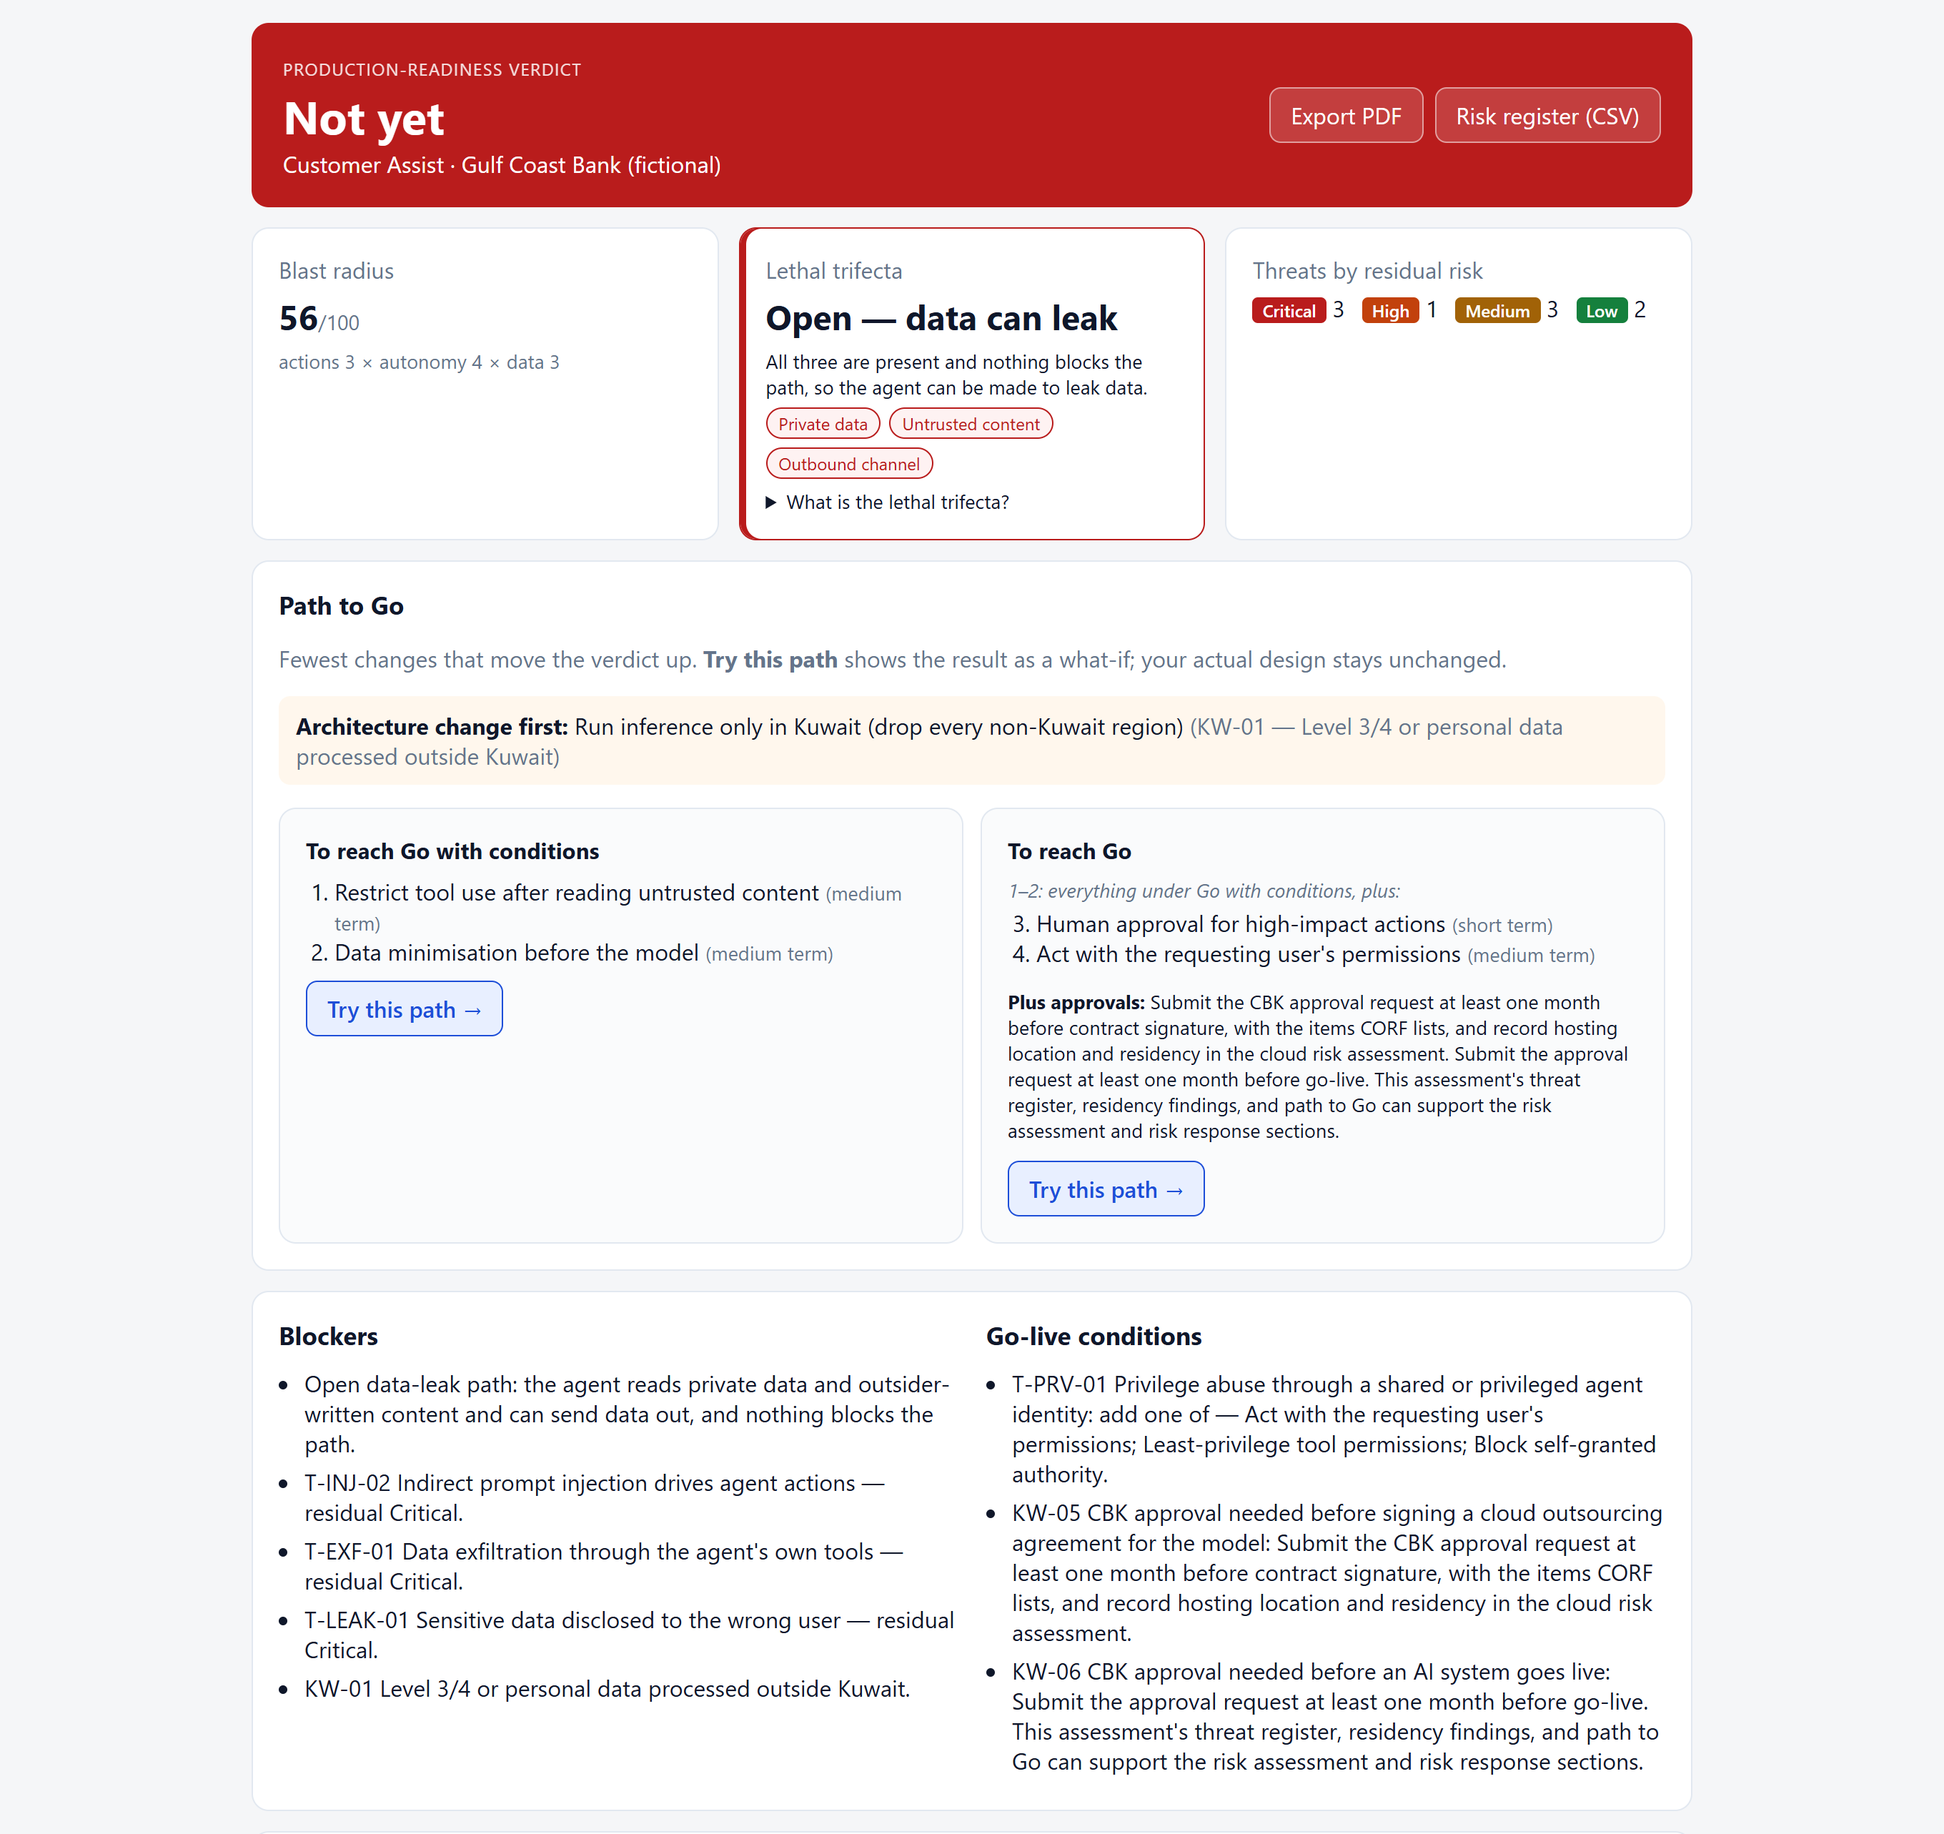
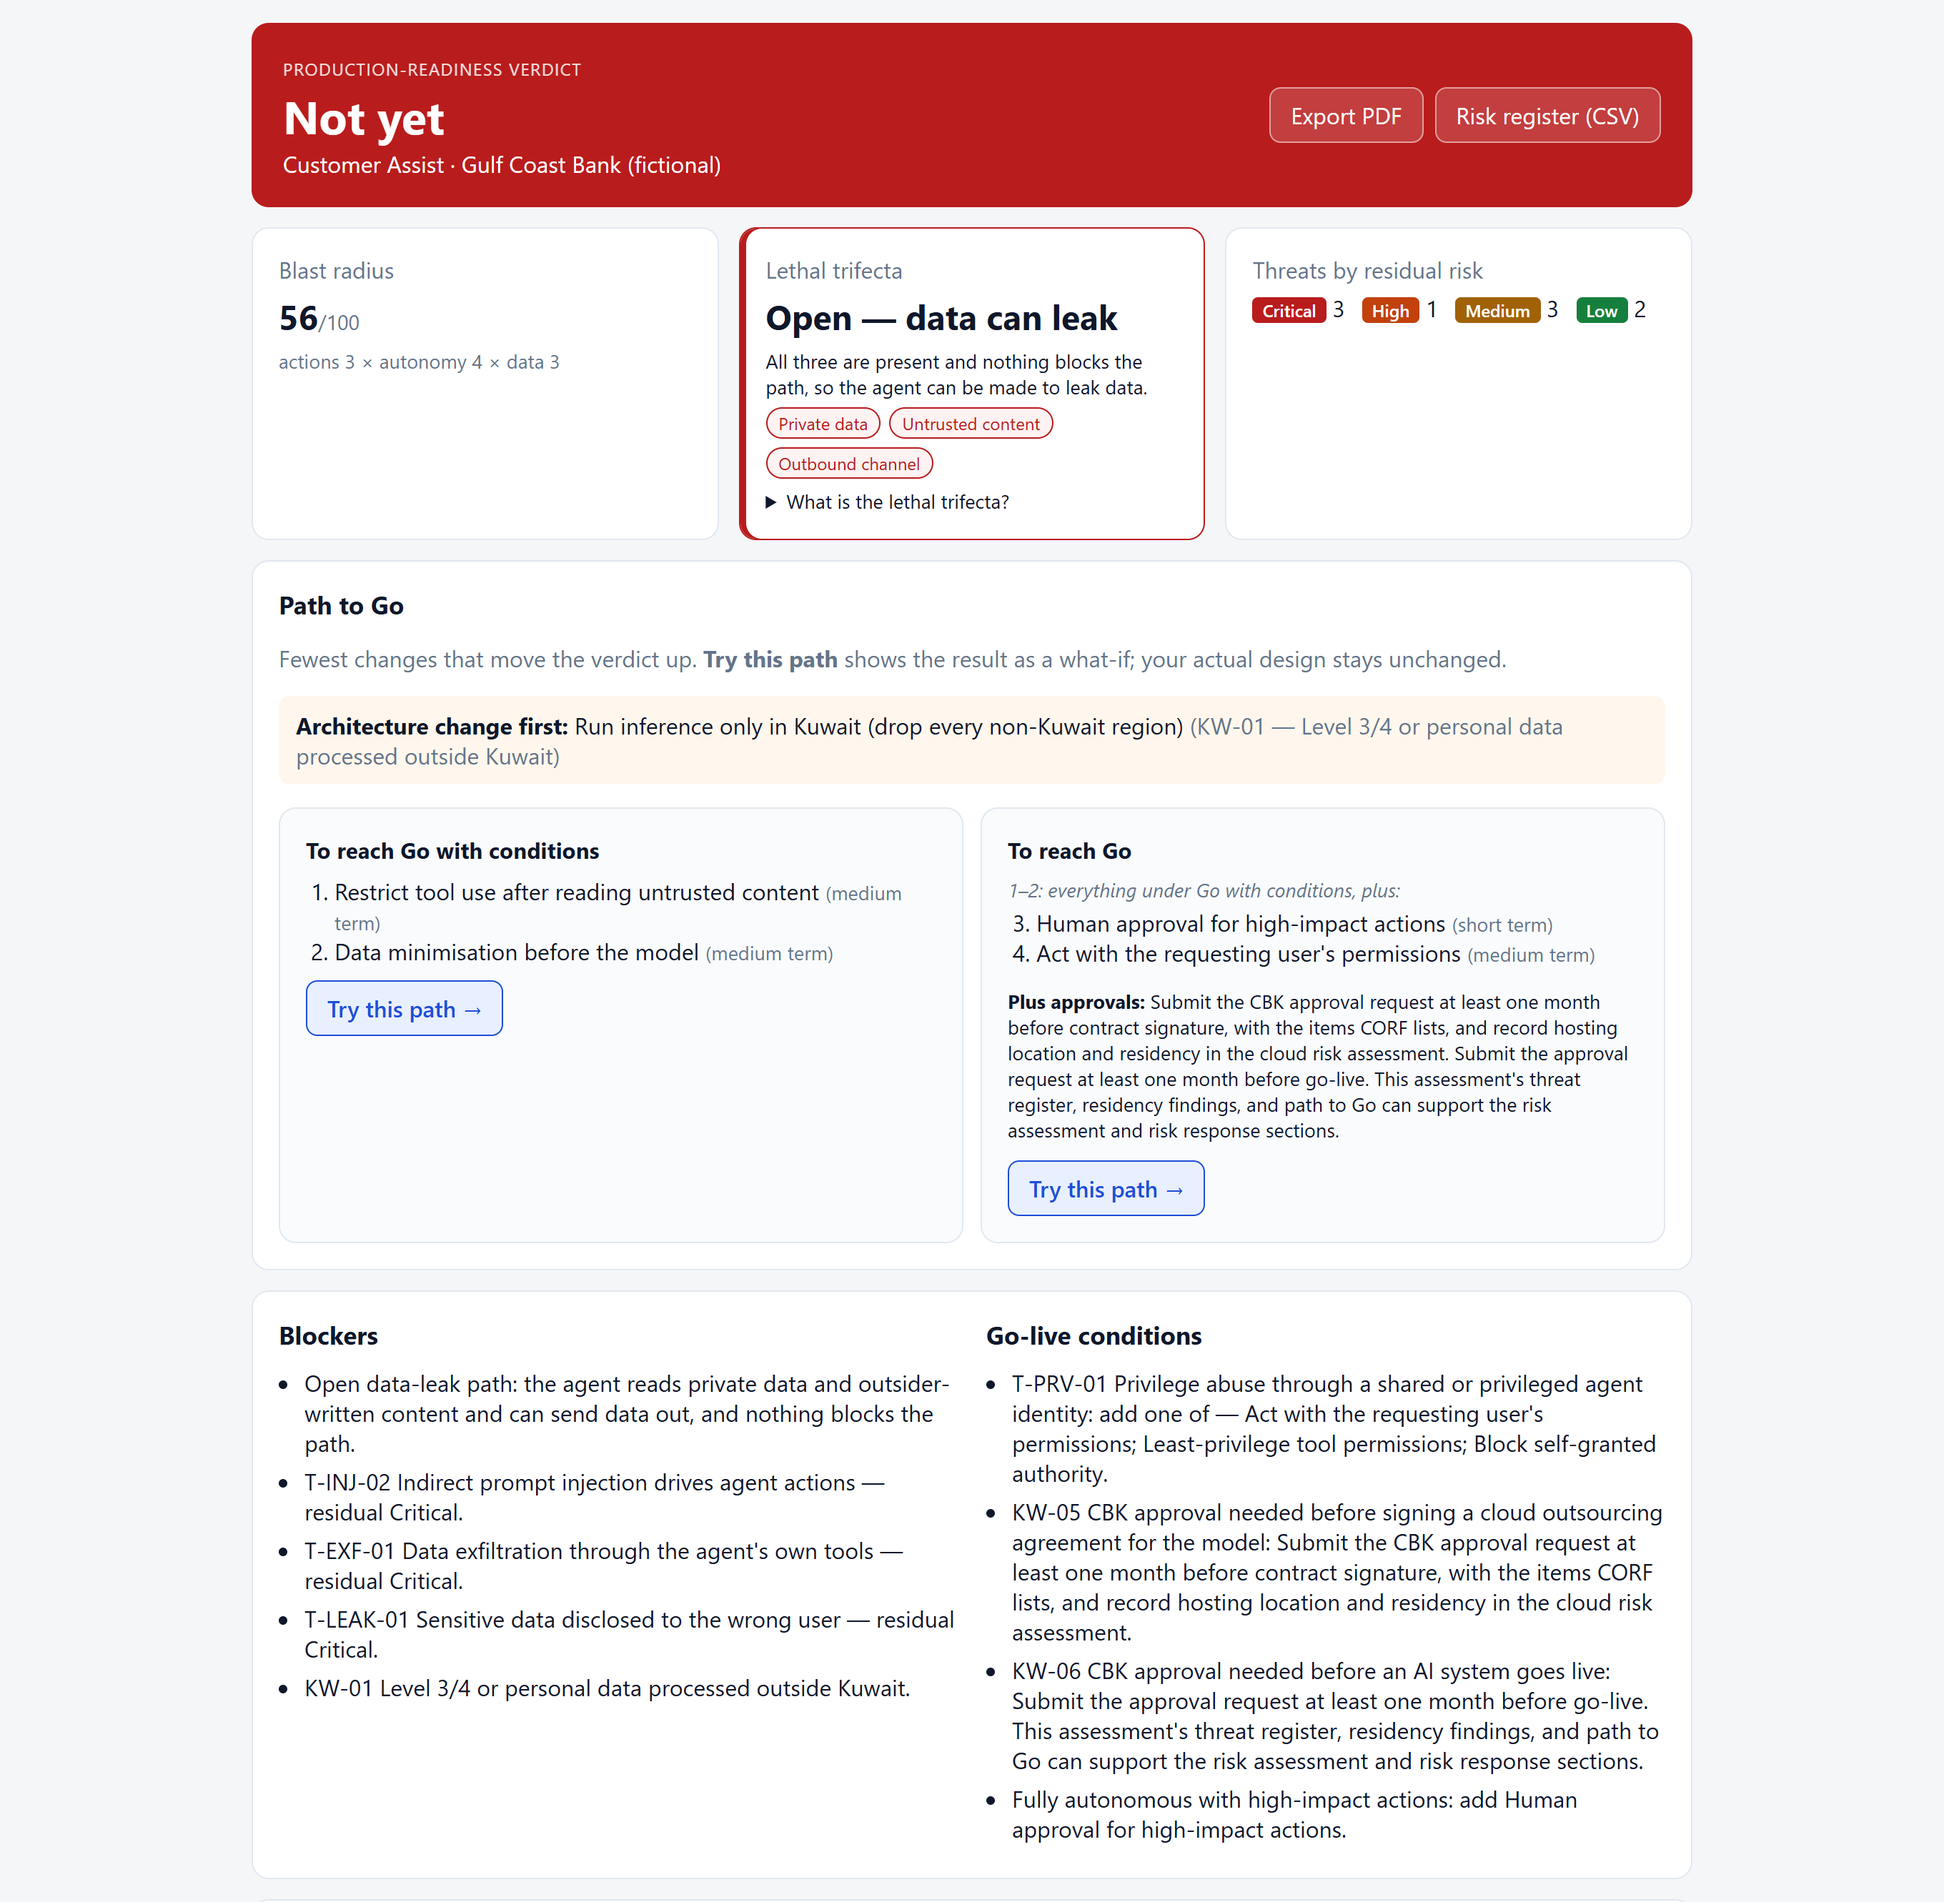
agent-risk-assessor: autonomy rule for Go, plain-language controls, scroll to top
- Verdict: a fully autonomous agent with any high-impact action needs
  Human approval for high-impact actions to reach Go. Per-threat scoring
  alone could clear it with no human in the loop. Test added; presets keep
  their verdicts.
- Controls page: descriptions rewritten in plain language for risk
  committees, keeping the detail that decides whether a control is in
  place (e.g. DNS). Titles unchanged.
- Changing step, or entering/leaving a what-if, now starts at the top of
  the page instead of keeping the previous scroll position.
- Spec and CLAUDE.md document the new rule; results screenshot refreshed.

diff --git a/projects/agent-risk-assessor/backend/test/engine.test.js b/projects/agent-risk-assessor/backend/test/engine.test.js
@@ -66,6 +66,20 @@ test('missing audit logging blocks a clean Go', () => {
   assert.equal(r.verdict.decision, 'go_with_conditions');
 });
 
+test('fully autonomous high-impact actions cap the verdict at Go with conditions without human approval', () => {
+  const hr = scenariosData.scenarios.find((s) => s.id === 'hr-policy');
+  const design = { ...hr.answers, autonomy: 'autonomous', actions: ['read_only', 'write_records'] };
+  const all = controlsData.controls.map((c) => c.id);
+  const noApproval = all.filter((c) => c !== 'human_approval');
+  const r = assess(design, noApproval);
+  assert.equal(r.verdict.decision, 'go_with_conditions');
+  assert.ok(r.verdict.conditions.some((c) => c.includes('Human approval for high-impact actions')));
+  assert.equal(assess(design, all).verdict.decision, 'go');
+  // Read-only autonomy, or a human approving high-risk actions, does not trigger it.
+  assert.equal(assess({ ...design, actions: ['read_only'] }, noApproval).verdict.decision, 'go');
+  assert.equal(assess({ ...design, autonomy: 'approve_high_risk' }, noApproval).verdict.decision, 'go');
+});
+
 test('Kuwait personal data outside Kuwait is Critical; in-country is not', () => {
   const base = { jurisdictions: ['KW'], dataSensitivity: '3', dataTypes: ['personal'], hostingCountry: ['EU'] };
   assert.ok(assess(base, []).residency.some((f) => f.id === 'KW-01' && f.severity === 4));

diff --git a/projects/agent-risk-assessor/backend/engine.js b/projects/agent-risk-assessor/backend/engine.js
@@ -354,7 +354,7 @@ export function rmfCoverage(result) {
 }
 
 
-function decideVerdict({ threats, residency, trifecta, has }) {
+function decideVerdict({ threats, residency, trifecta, has, a }) {
   const blockers = [];
   const conditions = [];
 
@@ -371,6 +371,10 @@ function decideVerdict({ threats, residency, trifecta, has }) {
     conditions.push(`${r.id} ${r.title}: ${r.remediation}`);
   if (!has('audit_logging'))
     conditions.push('Per-action audit logging is required before any agent goes live.');
+  // Per-threat scoring can let a fully autonomous agent reach Go once each threat is mitigated;
+  // a risk committee still expects a human in the loop for high-impact actions.
+  if (a.autonomy === 'autonomous' && intersects(a.actions, HIGH_IMPACT) && !has('human_approval'))
+    conditions.push('Fully autonomous with high-impact actions: add Human approval for high-impact actions.');
 
   const decision = blockers.length ? 'not_yet' : conditions.length ? 'go_with_conditions' : 'go';
   const label = { not_yet: 'Not yet', go_with_conditions: 'Go with conditions', go: 'Go' }[decision];

diff --git a/projects/agent-risk-assessor/frontend/src/App.jsx b/projects/agent-risk-assessor/frontend/src/App.jsx
@@ -34,6 +34,11 @@ export default function App() {
     try { sessionStorage.setItem(STORE, JSON.stringify({ step, answers, controls, whatIf })); } catch { /* private mode */ }
   }, [step, answers, controls, whatIf]);
 
+  // A new step, or entering/leaving a what-if, is a new page: start it at the top (the button that
+  // got you here is usually at the bottom of the previous one, and the what-if banner sits above the verdict).
+  const viewKey = `${step}:${whatIf?.changes.length ?? 0}`;
+  useEffect(() => { window.scrollTo({ top: 0 }); }, [viewKey]);
+
   if (error) return <div className="shell"><p className="error">{error}</p></div>;
   if (!meta) return <div className="shell"><p className="muted">Loading…</p></div>;
 

diff --git a/projects/agent-risk-assessor/CLAUDE.md b/projects/agent-risk-assessor/CLAUDE.md
@@ -44,6 +44,7 @@ frontend/src/
 - **The verdict never comes from Claude.** Claude writes the brief from the finished assessment and is told not to add findings. If the brief and the engine disagree, the engine is right.
 - **Guardrails alone never break the lethal trifecta.** Only `egress_restriction`, `untrusted_tool_restriction`, suggest-only autonomy, or approve-each with `approval_transparency` do. A test enforces this.
 - **Audit logging is required for Go**, whatever the scores.
+- **A fully autonomous agent with any high-impact action needs `human_approval` for Go.** Per-threat scoring alone would let it through with no human in the loop. A test enforces this.
 - **"Lethal trifecta" is AI-security jargon, not a regulatory term.** Reader-facing output uses it only on the summary card (web and PDF), always with its explanation, the meaning of the status (Open — data can leak / Blocked / Not present; not "Unbroken / Broken", which non-specialists read as reassuring), and its source. All explanatory wording lives in `TRIFECTA_TEXT` in `engine.js`, so the web page and the PDF can't drift. Blockers, threat descriptions, and the brief's input say "data-leak path" in plain language.
 - **No ID or clause from memory.** Every OWASP, ASI, ATLAS, AI RMF ID and every regulatory clause must be checked against the source and recorded in `SOURCES.md`. Loose fits get an empty list, not an approximate ID. Unverifiable instruments go in `residency.json` → `pending` and produce no findings. ISO/IEC 42001 is pending because its text is paywalled.
 - **A what-if never overwrites the actual design.** "Try this path" layers changes in a separate `whatIf` state. Any export from it must stay labelled what-if (title, filename, page-1 banner, Appendix A, CSV `basis` column): a report claiming controls that aren't in place is the one output this tool must never produce.

diff --git a/projects/agent-risk-assessor/PROJECT_SPEC.md b/projects/agent-risk-assessor/PROJECT_SPEC.md
@@ -182,13 +182,15 @@ One row per triggered threat — inherent and residual risk, controls in place, 
 |---|---|
 | **Not yet** | Any Critical residual threat, OR lethal trifecta open (nothing blocks the data-leak path), OR a Critical residency finding |
 | **Go with conditions** | No Critical, but ≥1 High — each High becomes a named go-live condition |
-| **Go** | Only Medium or lower, with per-action audit logging in place |
+| **Go** | Only Medium or lower, with per-action audit logging in place, and human approval for high-impact actions if the agent is fully autonomous |
 
 Audit logging is a hard requirement for **Go** whatever the score — you can't govern what you can't see.
 
+A fully autonomous agent that can take a high-impact action (write records, send externally, make network requests, delete, run code, move money, change permissions) needs **Human approval for high-impact actions** to reach **Go**. Per-threat scoring alone could otherwise clear an agent with no human in the loop once each threat is mitigated. "Human approves high-risk actions" oversight also satisfies it.
+
 ## Outputs
 
-1. **Page 1** — verdict, blast radius, trifecta status, a "What was assessed" summary (jurisdictions, hosting, inference countries, data classification, actions, users, oversight, controls count), and a linked contents strip
+1. **Page 1** — verdict, blast radius, trifecta status, a "What was assessed" summary (jurisdictions, hosting, inference countries, data classification, actions, users, oversight, controls in place by name), and a linked contents strip
 2. **Blockers and go-live conditions**
 3. **Path to Go** — architecture changes, controls, and approvals per target verdict
 4. **Risk committee brief** (Claude) — plain-language summary a non-technical committee can sign against
